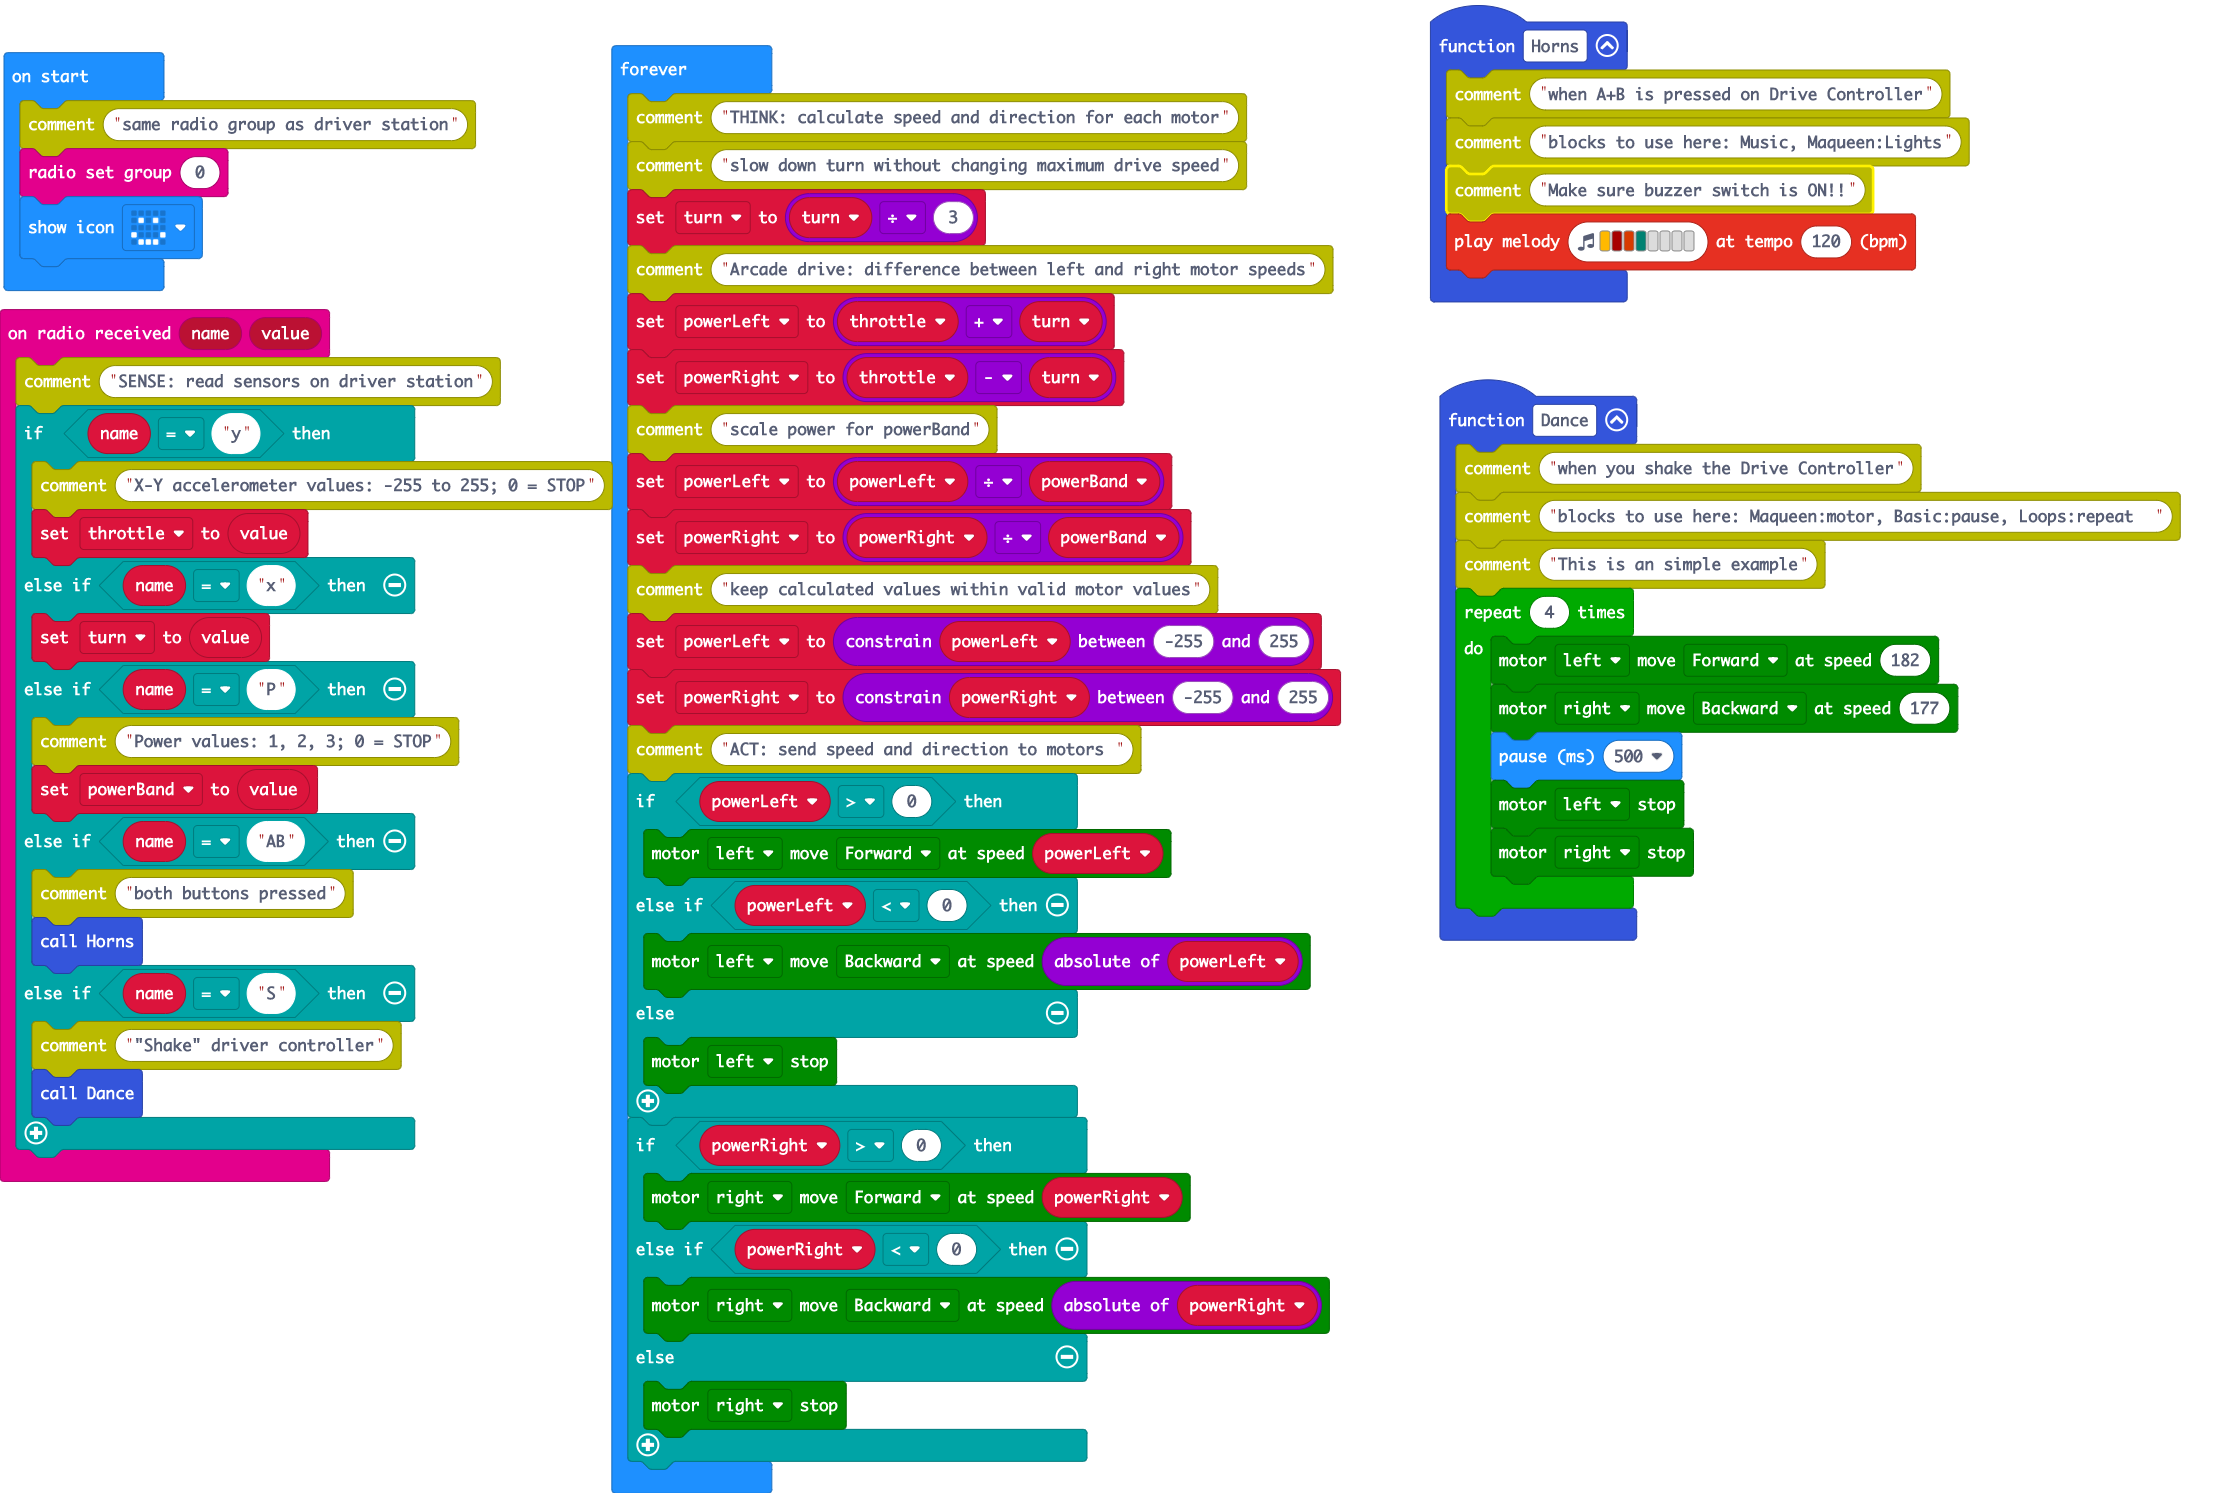
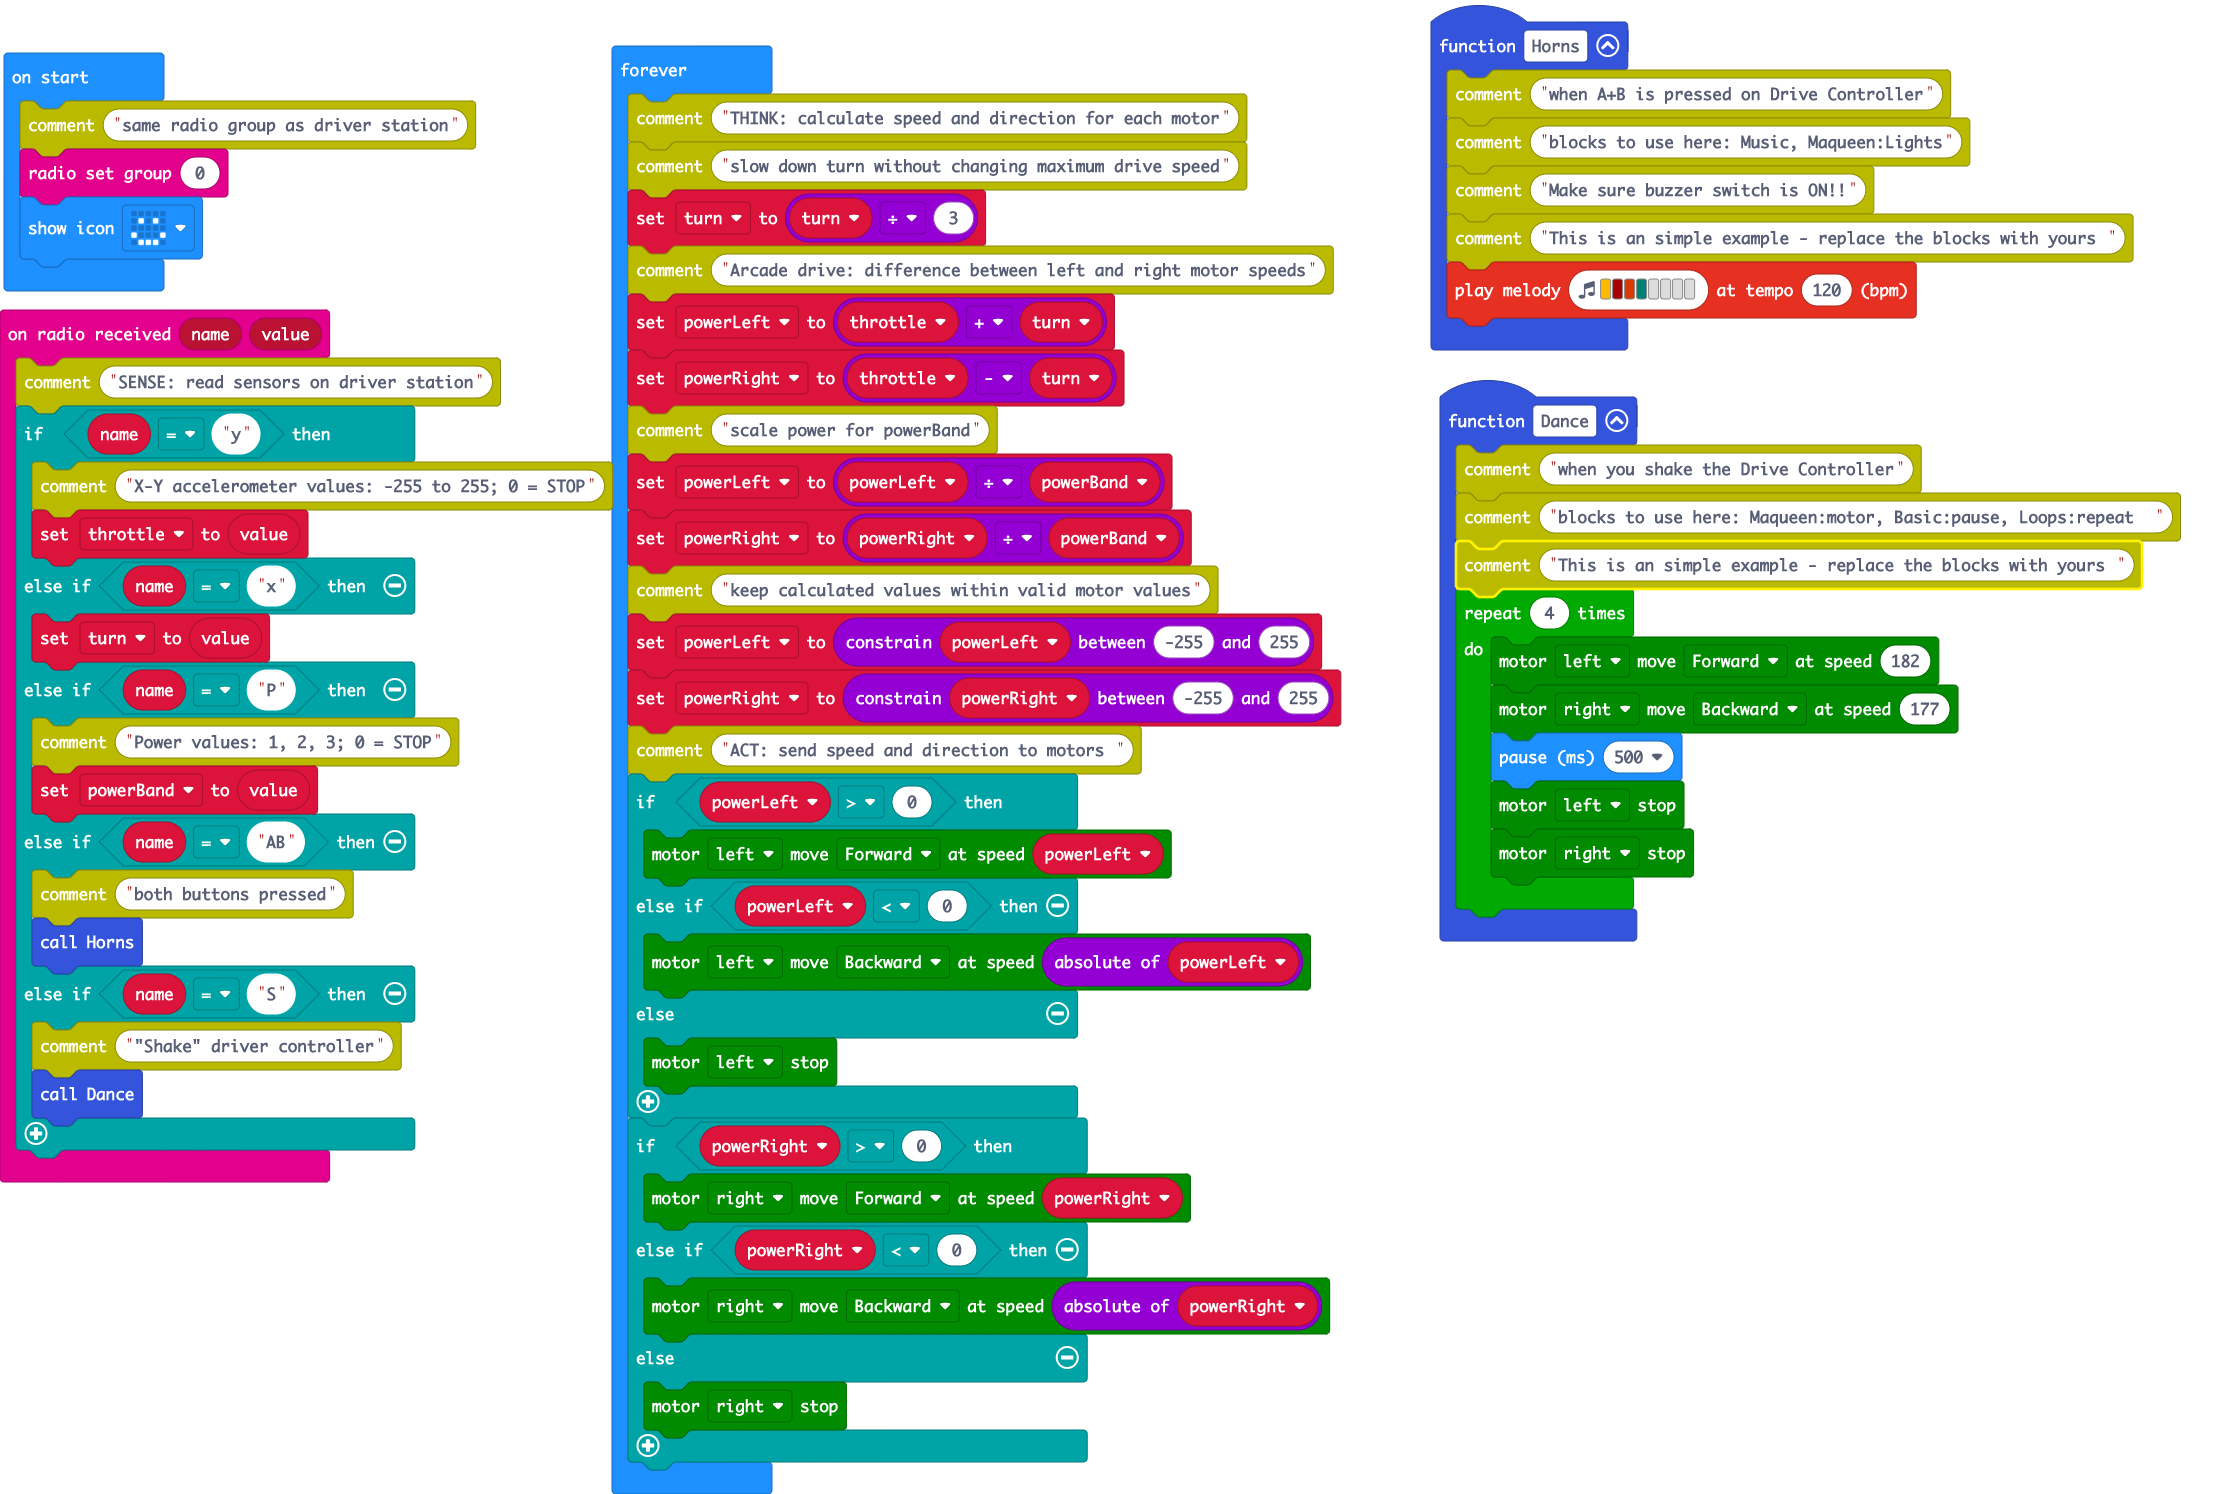
Update main.blocks, main.ts

diff --git a/main.ts b/main.ts
@@ -1,7 +1,7 @@
 function Dance () {
     comment.comment("when you shake the Drive Controller")
     comment.comment("blocks to use here: Maqueen:motor, Basic:pause, Loops:repeat  ")
-    comment.comment("This is an simple example")
+    comment.comment("This is an simple example - replace the blocks with yours ")
     for (let index = 0; index < 4; index++) {
         maqueen.motorRun(maqueen.Motors.M1, maqueen.Dir.CW, 182)
         maqueen.motorRun(maqueen.Motors.M2, maqueen.Dir.CCW, 177)
@@ -14,6 +14,7 @@ function Horns () {
     comment.comment("when A+B is pressed on Drive Controller")
     comment.comment("blocks to use here: Music, Maqueen:Lights")
     comment.comment("Make sure buzzer switch is ON!!")
+    comment.comment("This is an simple example - replace the blocks with yours ")
     music.playMelody("A C5 B F - - - - ", 120)
 }
 radio.onReceivedValue(function (name, value) {
